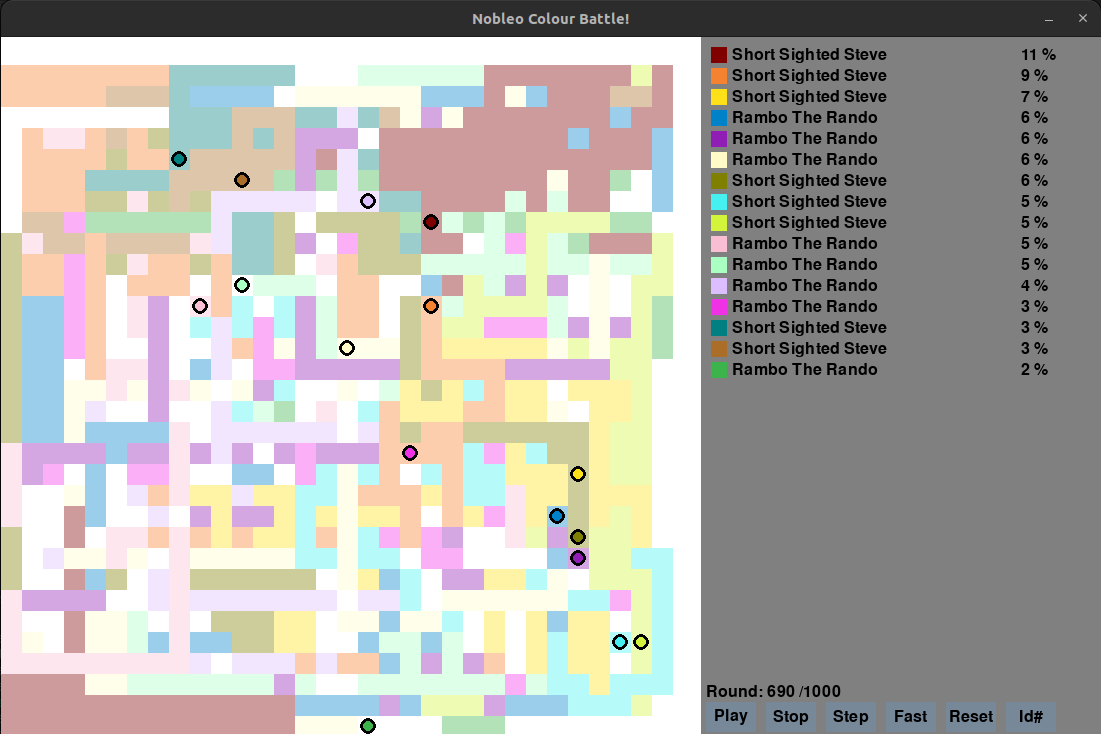
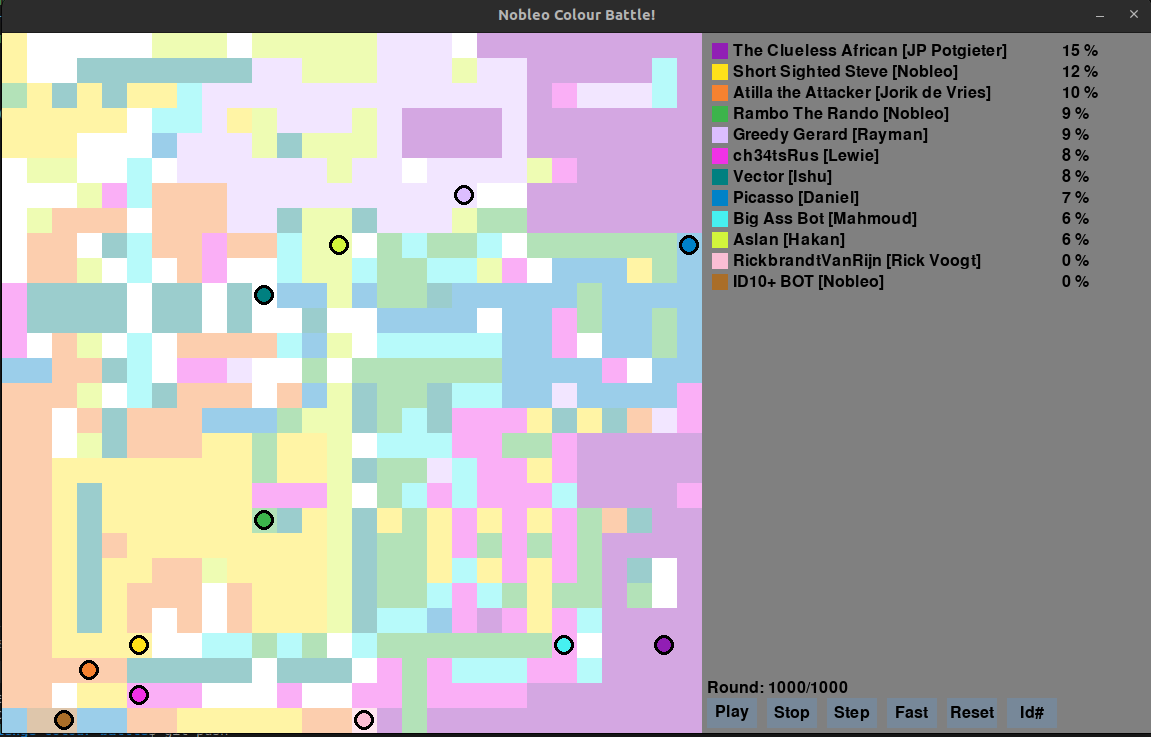
Update current standings and readme

diff --git a/readme.md b/readme.md
@@ -3,25 +3,26 @@
 ![](images/banner.png)
 
 ## Current Standings
-_Last updated: 16 March 2023 14:00_
+_Last updated: 17 March 2023 15:00_
 ```
-1  : Atilla the Attacker            Jorik de Vries        12.885 %
-2  : Picasso                        Daniel                12.105 %
-3  : The Clueless African           JP Potgieter           8.944 %
-4  : Short Sighted Steve            Nobleo                 8.811 %
-5  : Greedy Gerard                  Rayman                 7.431 %
-6  : Rambo The Rando                Nobleo                 7.222 %
-7  : Aslan                          Hakan                  7.221 %
-8  : ch34tsRus                      Lewie                  7.162 %
-9  : Vector                         Ishu                   7.038 %
-10 : Big Ass Bot                    Mahmoud                6.872 %
-11 : RickbrandtVanRijn              Rick Voogt             0.116 %
+1  : Picasso                        Daniel                12.223 %
+2  : Atilla the Attacker            Jorik de Vries        10.901 %
+3  : The Clueless African           JP Potgieter           9.363 %
+4  : Short Sighted Steve            Nobleo                 8.254 %
+5  : Aslan                          Hakan                  7.832 %
+6  : Rambo The Rando                Nobleo                 7.554 %
+7  : ch34tsRus                      Lewie                  7.522 %
+8  : Vector                         Ishu                   7.406 %
+9  : Big Ass Bot                    Mahmoud                7.233 %
+10 : Greedy Gerard                  Rayman                 6.518 %
+11 : ID10+ BOT                      Nobleo                 0.172 %
+12 : RickbrandtVanRijn              Rick Voogt             0.107 %
 ```
 _Note: These results are not a from a full tournament in the correct configuration. Final results might differ._
 
 ## Description
 
-The goal is the fill as much as possible of the canvas with your bot's colour. You determine in which direction your bot should move. *Be weary of other bots who might want to paint over your hard work!*
+The goal is the fill as much as possible of the canvas with your bot's colour. The bot with the most tiles win! *Be weary of other bots who might want to paint over your hard work!* There will also be a secondary prize for the bot that claimed the most tiles using the least amount of _processing time_!
 
 [View the already submitted bots battle online here!](https://nobleans-playground.github.io/coding-challenge-colour-battle/)
 
@@ -107,11 +108,17 @@ Your bot will live as a git submodule inside the main challenge repository. This
 1. Clone _this_ repository using `git clone --recursive [URL]`. The `--recursive` is to pull in all submodule bots.
 2. If your bot's submodule has been added as a submodule then you can develop your bot in your folder. Remember to `add/commit/push` your changes once you're done so that the online simulation can be updated with your newest bot. (Will still need a manual refresh by an organiser)
 3. **If your bot has not been **added to the main repository you can temporarily add it to `robots/`, similar to `ShortSightedSteve`. Remember to add ot tp `bot_list.py` as well.
+4. Choose a workspace to code in. I would recommend Visual Studio Code (VSCode), which works well for Windows or Ubuntu.
 4. Run `main.py` to watch the current bots battle for the canvas with a nice GUI (if using VSCode press `F5` to run it in `debug` mode). Or run `tournament.py` to run it without a GUI and simply print out the end rankings.
 
 **Updating your local repository with the newest changes**
-Over the course of the challenge your local repository might be out-of-date with all the other bots. You will need to run `git submodule update --remote` to pull in all the newest bot changes. It might also be that some challenge-engine code was altered, which you will also have to `pull`.
-
+Over the course of the challenge your local repository might be out-of-date with all the other bots. To update the environent you can run the following two commands from the root folder.
+```bash
+# Pull the latest game-code
+git pull
+# Pull the latest code from all the bots
+git submodule update --remote
+```
 ## Running the bot on your machine
 You can develop and test your bot on your local machine, and should be doable on either Windows or Linux. All you need is the following Python packages on your machine, `pygame` and `numpy`.
 
